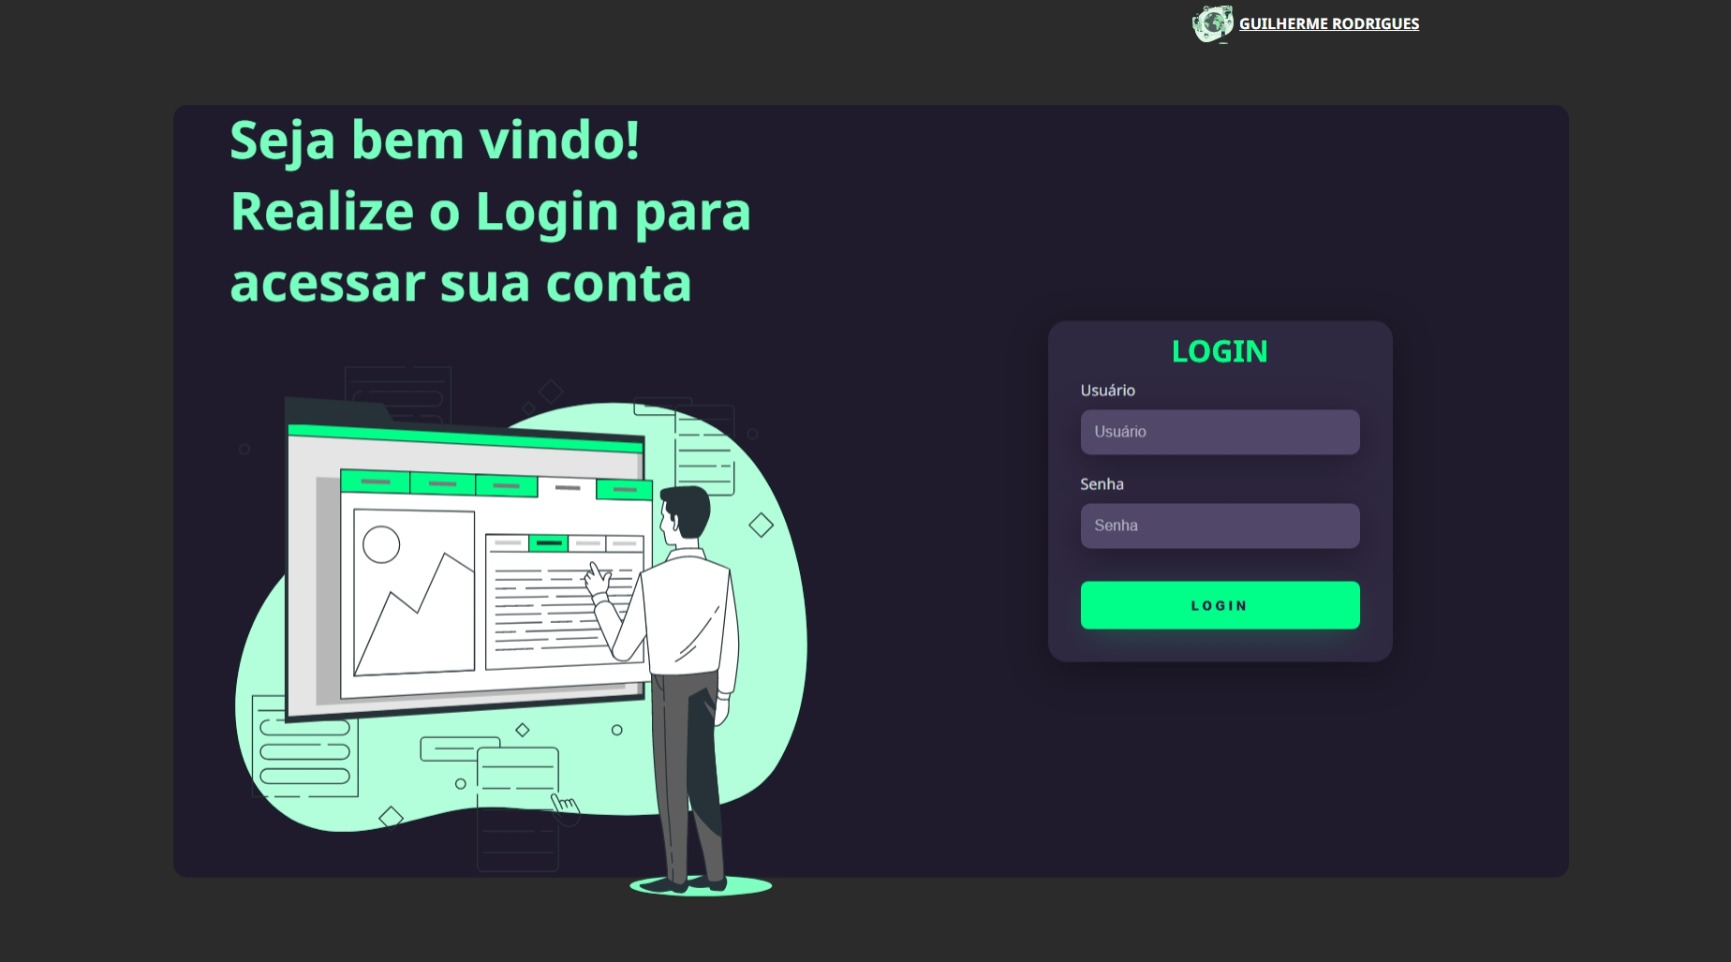
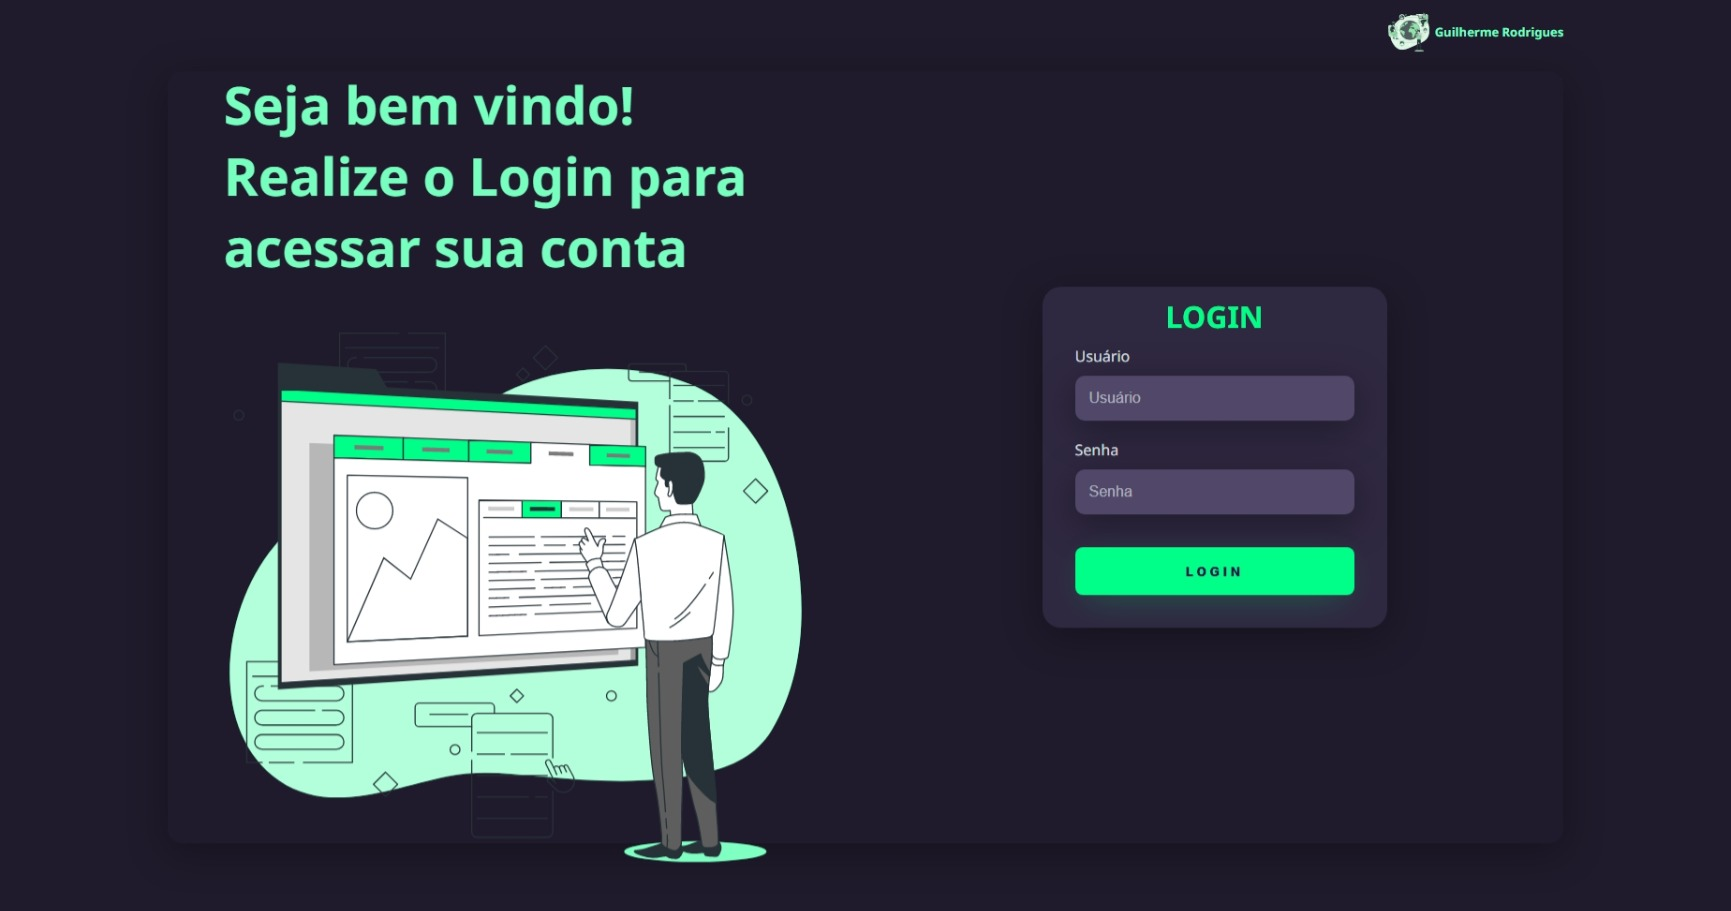
atualização mobile

diff --git a/portfolio/style.css b/portfolio/style.css
@@ -3,7 +3,7 @@
 body{
     margin: 0;
     font-family: 'Noto Sans', sans-serif;
-    background: #2b2b2b;
+    background:#201b2c;
 }
 
 header{
@@ -23,24 +23,14 @@ header{
     align-items: center;
     font-size: 12px;
     padding: 15px;
+    margin: 1% auto;
 }
 
 .logotipo >h1{
-    font-size:medium;
-    text-decoration:underline;
-    cursor: pointer; 
+    font-size:small;
+    text-decoration:double;
+    color:#77ffc0;
 }
-.logotipo >h1:hover{
-    font-size:large;
-    text-decoration:underline; ; 
-}
-
-.entorno{
-    justify-content: center;
-    align-items: center;
-    margin: 0px;
-}
-
 .main-login{
     width: 80vw;
     height: 85vh;
@@ -49,7 +39,9 @@ header{
     justify-content: center;
     align-items: center;
     border-radius: 15px;
-    margin: 5% 10%;
+    margin: 5vh auto;
+    border: none;
+    box-shadow: 0px 10px 40px #00000056;
 }
 
 .lado-esquerdo{
@@ -59,6 +51,7 @@ header{
     flex-direction: column;
     justify-content: center;
     align-items: center;
+    margin: 30px auto;
 }
 
 .lado-esquerdo >h1{

diff --git a/portfolio/index.html b/portfolio/index.html
@@ -10,10 +10,9 @@
 <body>
     <header>
         <div class="logotipo">
-        <img src="img/rede.svg" class="imgheader" alt="rede">         <h1>GUILHERME RODRIGUES</h1>
+        <img src="img/rede.svg" class="imgheader" alt="rede">         <h1>Guilherme Rodrigues</h1>
     </div>
     </header>
-   <div class="entorno">
     <div class="main-login">
         <div class="lado-esquerdo">
             <h1>Seja bem vindo!<br>Realize o Login para acessar sua conta</h1>
@@ -36,6 +35,5 @@
             </div>
         </div>
     </div>
-</div>
 </body>
 </html>

diff --git a/portfolio.html b/portfolio.html
@@ -28,7 +28,7 @@
             <div class="card-site">
                 <figure>
                 <figcaption>Página de login</figcaption>
-                <a href="portifolio1/index.html" target="_blank">
+                <a href="portfolio/index.html" target="_blank">
                 <img src="images/paglogin.jpeg" class="imglogin" alt="sitelogin"></a></figure>
 </body>
             

diff --git a/styles/media.css b/styles/media.css
@@ -1,4 +1,4 @@
-@media screen and (max-width: 1200px){
+@media screen and (max-width: 600px){
 
     header{
         flex-direction: column;
@@ -34,7 +34,7 @@
     }
 
     img{
-        display: none;
+        width: 25vw;
     }
 
     ul{
